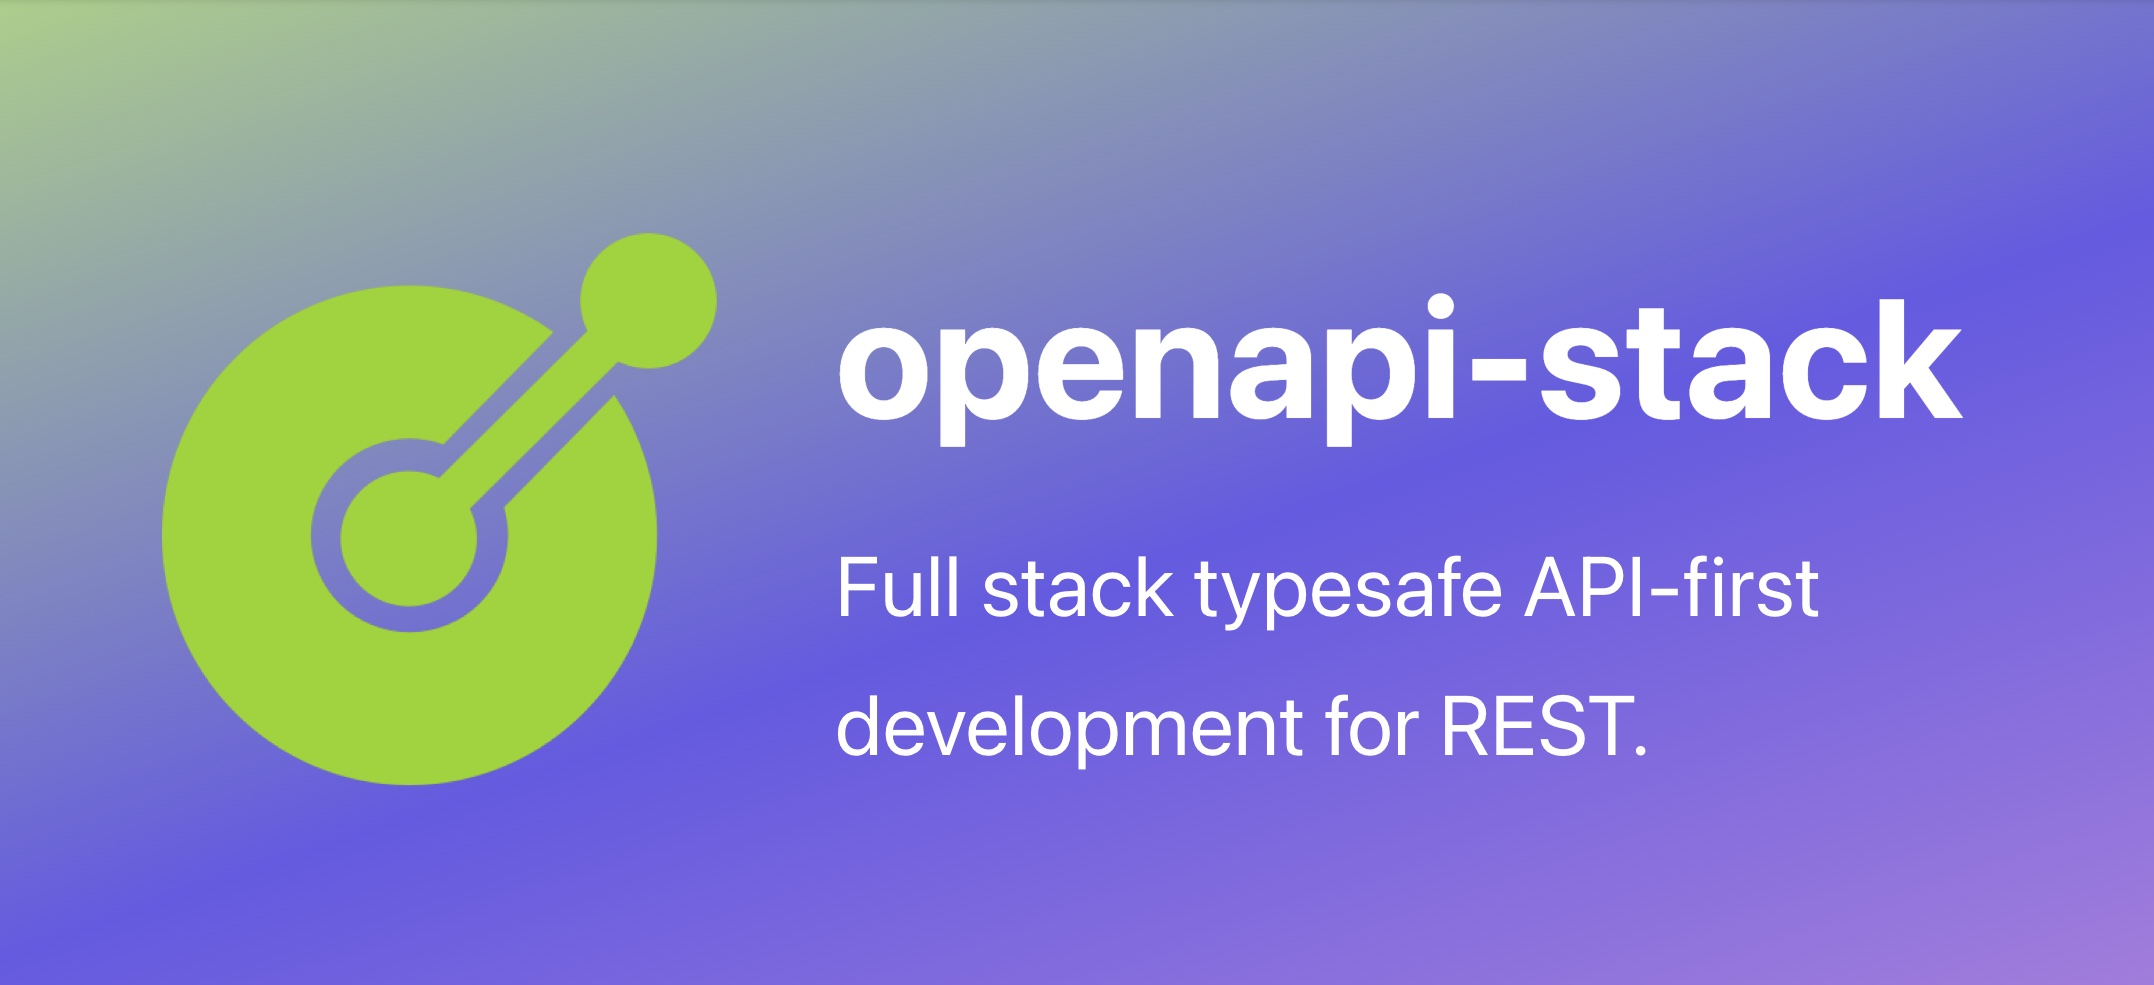
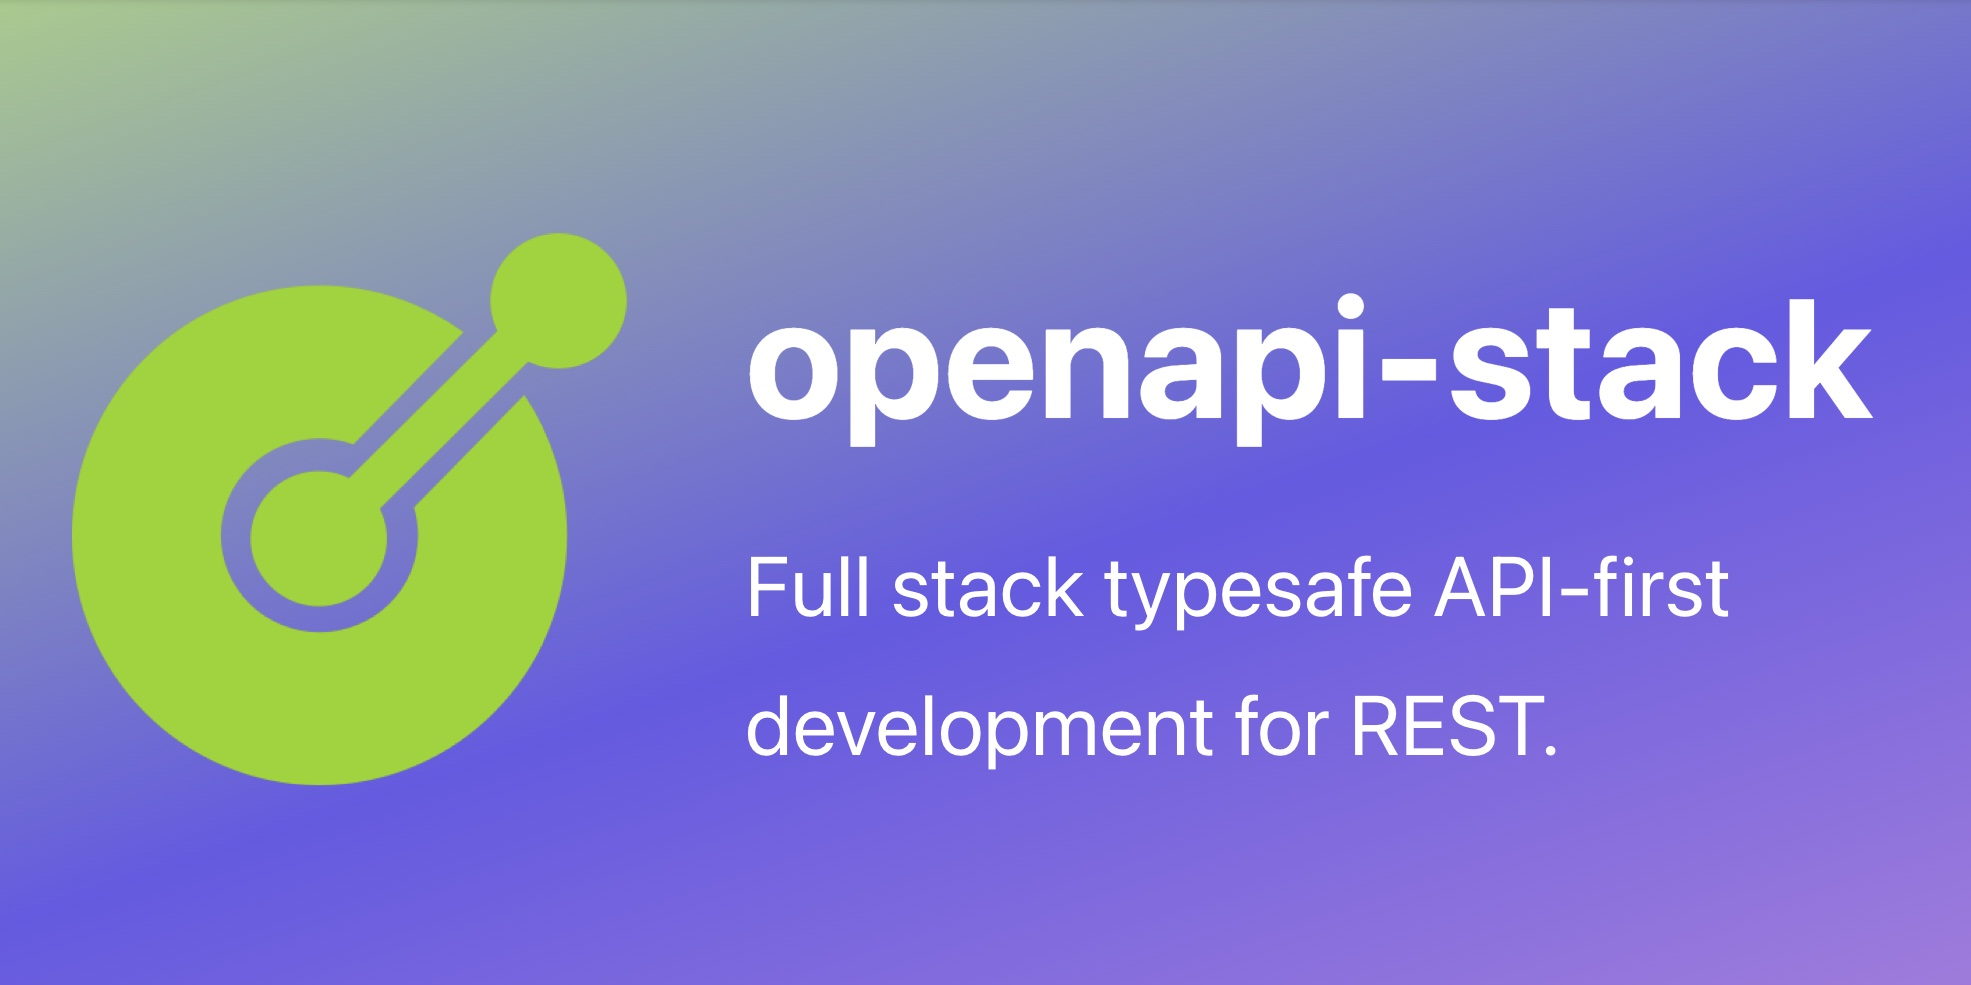
Crop social card

diff --git a/docusaurus.config.js b/docusaurus.config.js
@@ -55,7 +55,7 @@ const config = {
   themeConfig:
     /** @type {import('@docusaurus/preset-classic').ThemeConfig} */
     ({
-      image: 'img/openapistack-social.jpg',
+      image: 'img/openapistack-social.jpg?version=1',
       navbar: {
         title: 'openapi-stack',
         logo: {
